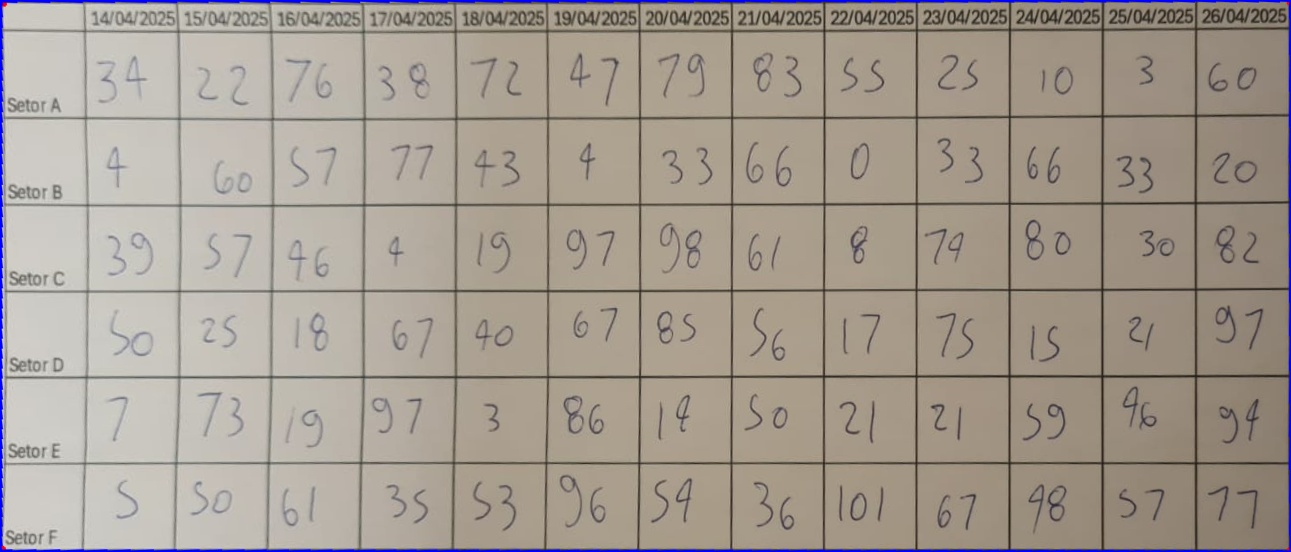
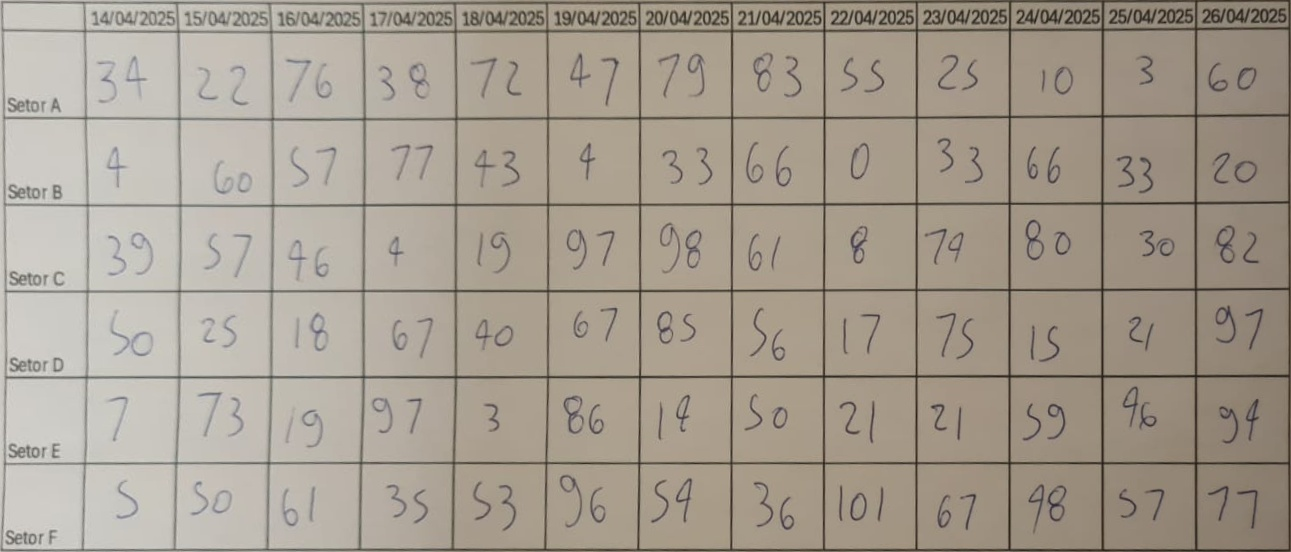
Add files via upload

Changed region(s): [[0.0, 0.0, 1.0, 1.0], [0.0, 0.154, 0.031, 0.1848], [0.0, 0.0924, 0.031, 0.1232]]

diff --git a/main.py b/main.py
@@ -131,7 +131,7 @@ destination = np.array([
 M = cv2.getPerspectiveTransform(ordered_points, destination)
 
 # Aplica a transformação perspectiva para obter a imagem retificada
-warped = cv2.warpPerspective(image, M, (max_width, max_height))
+warped = cv2.warpPerspective(image_original.copy(), M, (max_width, max_height))
 
 display_image(image_original, figsize=(8, 8), title='Imagem Original')
 display_image(warped, figsize=(8, 8), title='Tabela Extraída')
